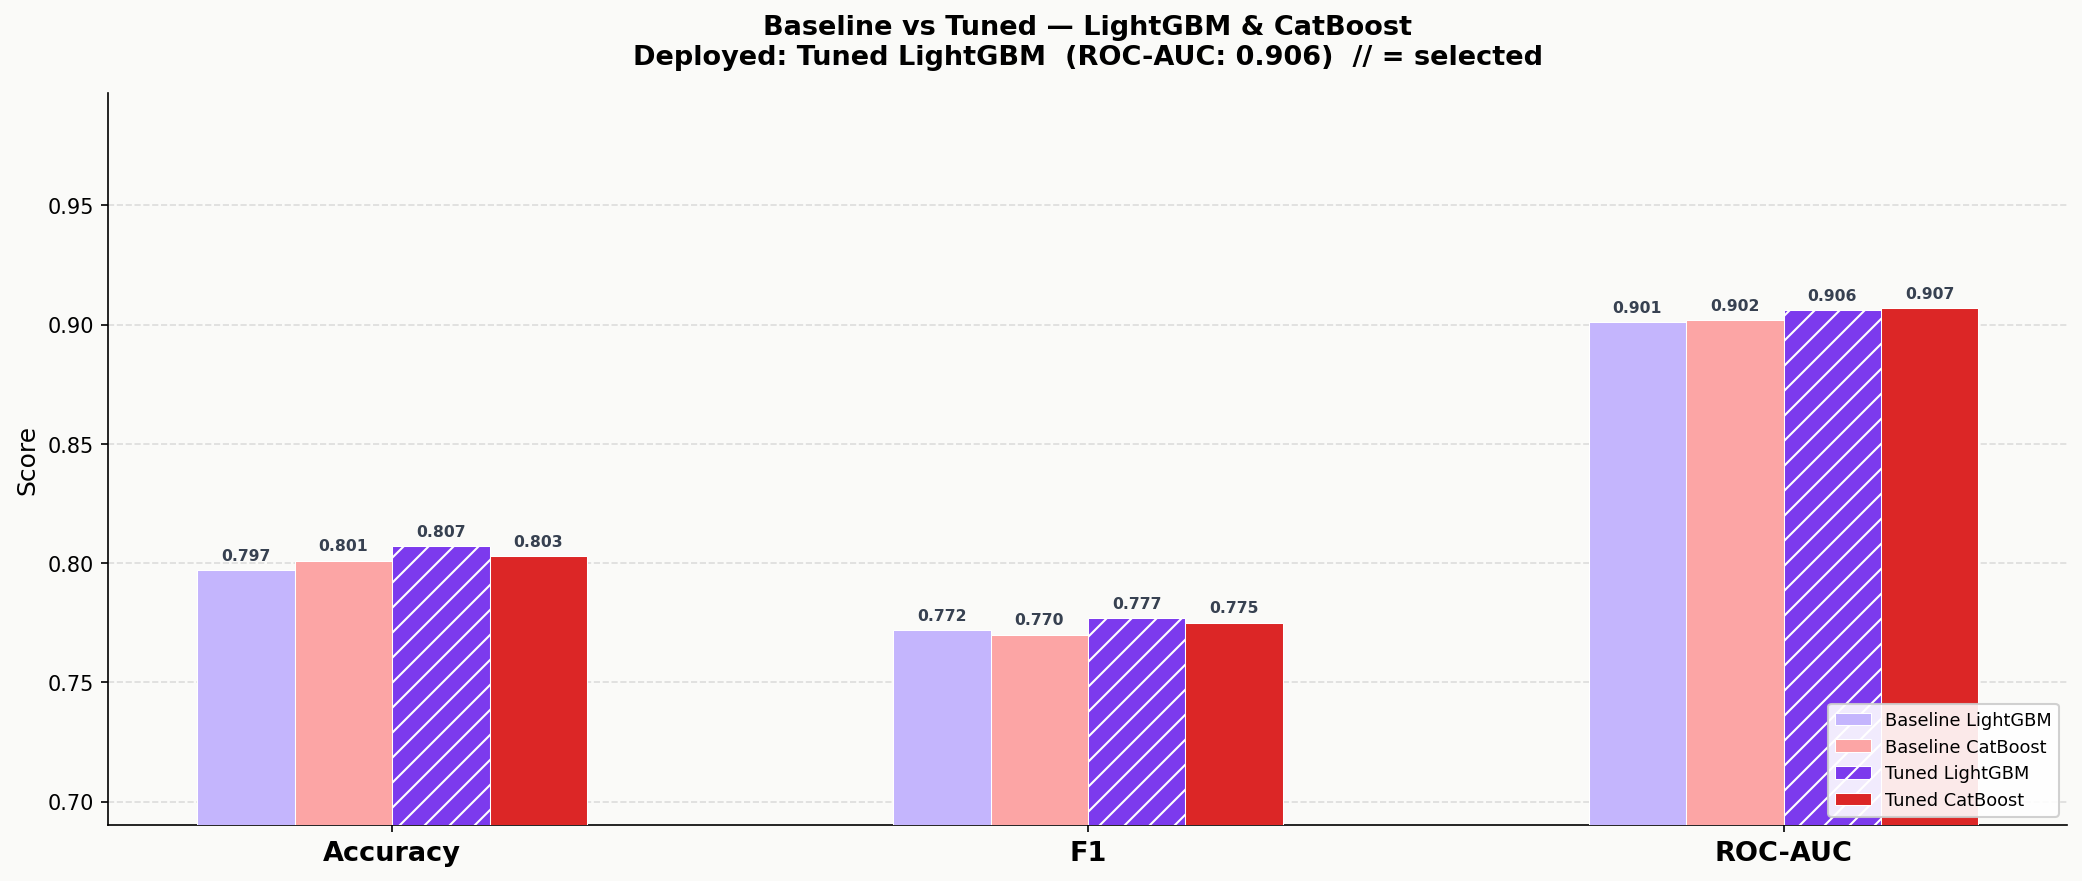
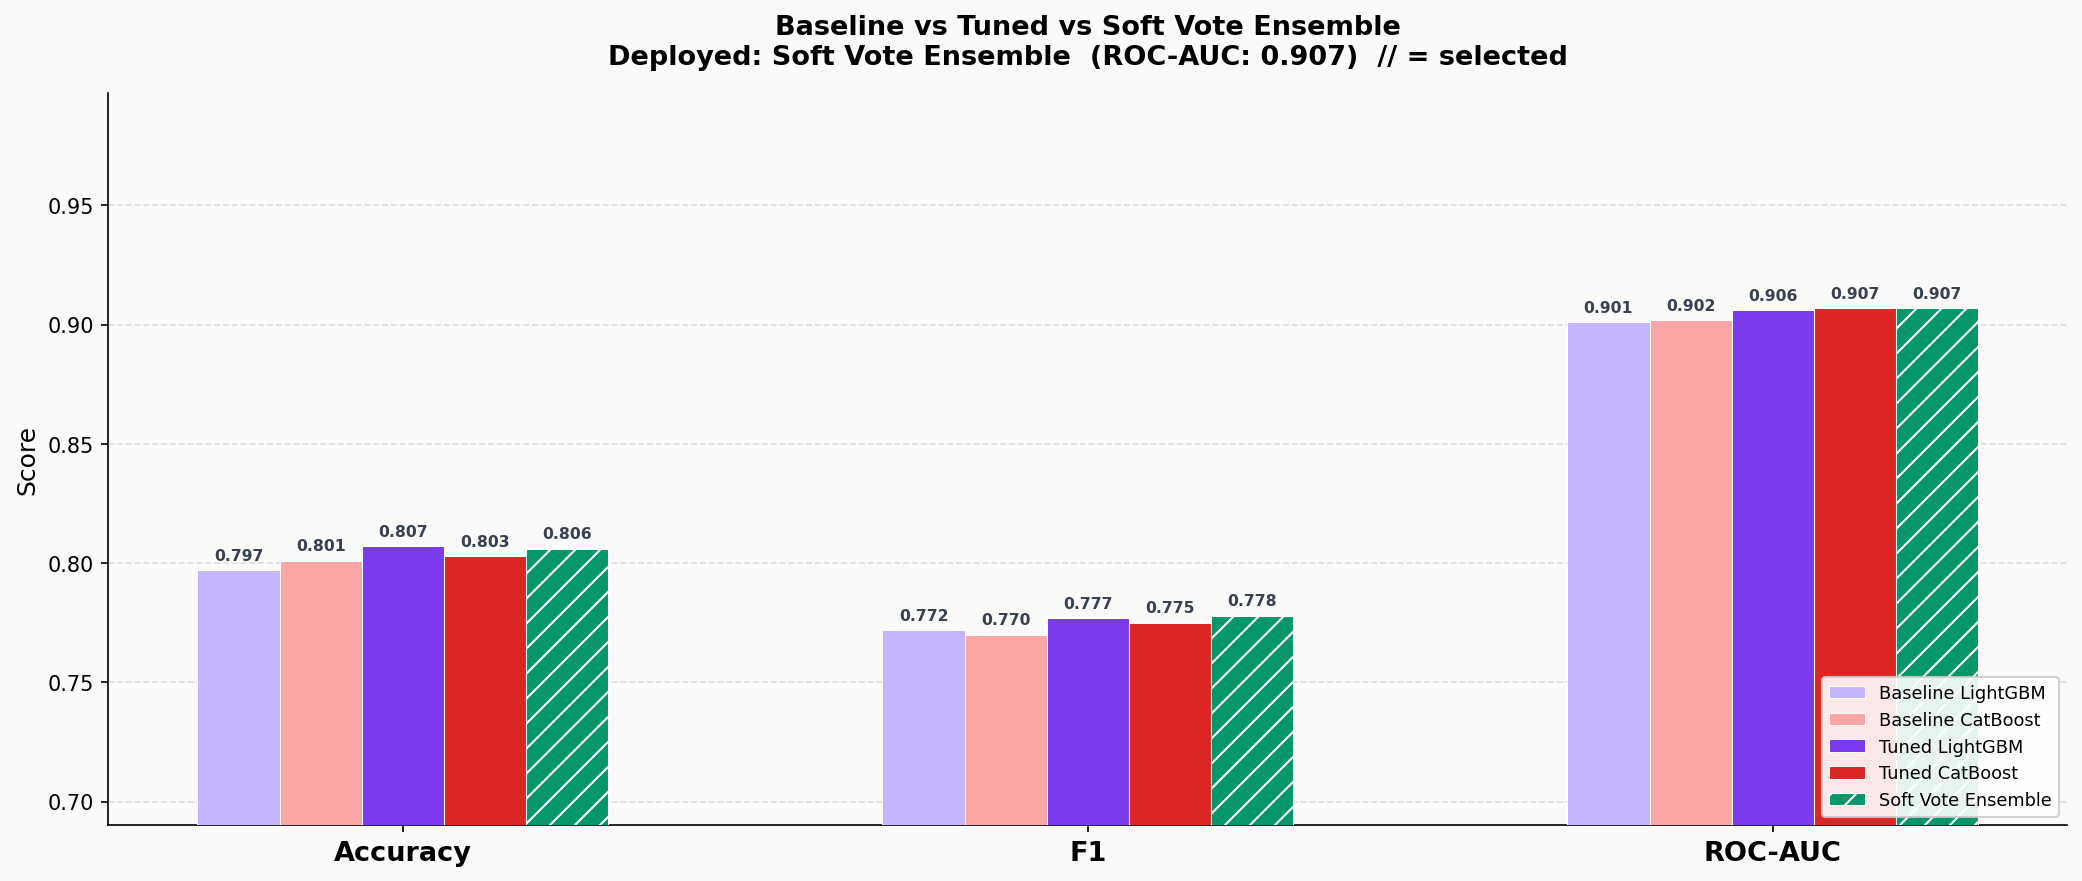
Refactor model loading and evaluation to use Soft Vote Ensemble (LightGBM + CatBoost)

diff --git a/ml/evaluatemodel.py b/ml/evaluatemodel.py
@@ -108,18 +108,25 @@ X_train, X_test, y_train, y_test = train_test_split(
 )
 print(f"\nSplit: {len(X_train):,} train / {len(X_test):,} test (80/20 stratified)")
 
-# ── 3. Load deployed model ────────────────────────────────────────────────────
-print("\nLoading model (tuned_lgbm.pkl)...")
-model = joblib.load(str(BASE_DIR / "tuned_lgbm.pkl"))
-print("  Loaded: tuned_lgbm.pkl")
+# ── 3. Load deployed ensemble ─────────────────────────────────────────────────
+print("\nLoading ensemble (ensemble_soft.pkl)...")
+bundle     = joblib.load(str(BASE_DIR / "ensemble_soft.pkl"))
+lgbm_pipe  = bundle["lgbm"]
+cat_pipe   = bundle["cat"]
+inner_lgbm = lgbm_pipe.named_steps["model"]
+inner_cat  = cat_pipe.named_steps["model"]
+X_scaled   = lgbm_pipe.named_steps["prep"].transform(X)
+print("  Loaded: ensemble_soft.pkl  (Tuned LightGBM + Tuned CatBoost)")
 
 # ── 4. Evaluate on held-out test set ─────────────────────────────────────────
 print("\n" + "="*60)
 print("HELD-OUT TEST SET EVALUATION  (20% unseen data)")
 print("="*60)
 
-y_pred  = model.predict(X_test)
-y_prob  = model.predict_proba(X_test)[:, 1]
+y_prob_lgbm = lgbm_pipe.predict_proba(X_test)[:, 1]
+y_prob_cat  = cat_pipe.predict_proba(X_test)[:, 1]
+y_prob      = (y_prob_lgbm + y_prob_cat) / 2
+y_pred      = (y_prob >= 0.5).astype(int)
 
 acc     = accuracy_score(y_test, y_pred)
 prec    = precision_score(y_test, y_pred)
@@ -154,16 +161,11 @@ print("\n" + "="*60)
 print("5-FOLD STRATIFIED CROSS-VALIDATION  (Tuned LightGBM)")
 print("="*60)
 
-cv          = StratifiedKFold(n_splits=5, shuffle=True, random_state=42)
-inner_model = model.named_steps["model"]
-X_scaled    = model.named_steps["prep"].transform(X)
-res = cross_validate(
-    inner_model, X_scaled, y,
-    cv=cv,
-    scoring=["accuracy", "f1", "roc_auc"],
-    return_train_score=True,
-)
-cv_results = {"LightGBM": res}
+cv       = StratifiedKFold(n_splits=5, shuffle=True, random_state=42)
+res_lgbm = cross_validate(inner_lgbm, X_scaled, y, cv=cv, scoring=["accuracy", "f1", "roc_auc"], return_train_score=True)
+res_cat  = cross_validate(inner_cat,  X_scaled, y, cv=cv, scoring=["accuracy", "f1", "roc_auc"], return_train_score=True)
+res      = {k: (res_lgbm[k] + res_cat[k]) / 2 for k in res_lgbm}
+cv_results = {"Soft Vote Ensemble": res}
 for metric in ["accuracy", "f1", "roc_auc"]:
     ts = res[f"test_{metric}"]
     tr = res[f"train_{metric}"]
@@ -179,7 +181,7 @@ else:
 print("\nGenerating evaluation plots...")
 
 fig, axes = plt.subplots(1, 3, figsize=(18, 5))
-fig.suptitle("ML Model Evaluation — Tuned LightGBM",
+fig.suptitle("ML Model Evaluation — Soft Vote Ensemble (LightGBM + CatBoost)",
              fontsize=14, fontweight="bold")
 
 # Plot A: Confusion Matrix
@@ -190,7 +192,7 @@ axes[0].set_title("Confusion Matrix\n(Held-out Test Set)", fontweight="bold")
 
 # Plot B: ROC Curve
 fpr, tpr, _ = roc_curve(y_test, y_prob)
-axes[1].plot(fpr, tpr, color="#6D28D9", lw=2, label=f"Tuned LightGBM (AUC = {roc_auc:.3f})")
+axes[1].plot(fpr, tpr, color="#6D28D9", lw=2, label=f"Soft Vote Ensemble (AUC = {roc_auc:.3f})")
 axes[1].plot([0, 1], [0, 1], color="gray", linestyle="--", label="Random baseline")
 axes[1].set_xlabel("False Positive Rate")
 axes[1].set_ylabel("True Positive Rate")
@@ -199,10 +201,12 @@ axes[1].legend()
 axes[1].set_xlim([0, 1])
 axes[1].set_ylim([0, 1.02])
 
-# Plot C: Feature Importance (LightGBM)
-lgbm_imp            = inner_model.booster_.feature_importance(importance_type="gain").astype(float)
-lgbm_imp           /= lgbm_imp.sum()
-feature_importances = lgbm_imp
+# Plot C: Feature Importance (averaged LightGBM + CatBoost)
+lgbm_imp = inner_lgbm.booster_.feature_importance(importance_type="gain").astype(float)
+lgbm_imp /= lgbm_imp.sum()
+cat_imp  = np.array(inner_cat.get_feature_importance(type="FeatureImportance"), dtype=float)
+cat_imp  /= cat_imp.sum()
+feature_importances = (lgbm_imp + cat_imp) / 2
 sorted_idx          = np.argsort(feature_importances)
 readable = {
     "issue_match":        "Issue Similarity",
@@ -219,7 +223,7 @@ colors = ["#6D28D9" if feature_importances[i] >= np.median(feature_importances) 
           for i in sorted_idx]
 axes[2].barh(labels, feature_importances[sorted_idx], color=colors)
 axes[2].set_xlabel("Relative Importance (normalized)")
-axes[2].set_title("Feature Importance\n(Tuned LightGBM)", fontweight="bold")
+axes[2].set_title("Feature Importance\n(Averaged: LightGBM + CatBoost)", fontweight="bold")
 axes[2].set_xlim([0, feature_importances.max() * 1.15])
 for i, v in enumerate(feature_importances[sorted_idx]):
     axes[2].text(v + 0.002, i, f"{v:.3f}", va="center", fontsize=8)
@@ -237,8 +241,8 @@ report_lines = [
     f"Features      : {len(FEATURE_ORDER)}",
     f"Target        : match_success (binary)",
     f"Class balance : match=1 ({y.mean()*100:.1f}%), match=0 ({(1-y).mean()*100:.1f}%)",
-    f"Model         : tuned_lgbm.pkl",
-    f"Pipeline      : StandardScaler → SMOTE → tree classifier",
+    f"Model         : ensemble_soft.pkl  (Soft Vote: LightGBM + CatBoost)",
+    f"Pipeline      : StandardScaler → SMOTE → each model; averaged probabilities",
     "",
     "TEST SET RESULTS (20% held-out, stratified split, seed=42)",
     "-" * 60,
@@ -257,7 +261,7 @@ report_lines = [
     "5-FOLD CROSS-VALIDATION",
     "-" * 60,
 ]
-for cv_label in ["LightGBM"]:
+for cv_label in ["Soft Vote Ensemble"]:
     res = cv_results[cv_label]
     report_lines.append(f"  {cv_label}")
     for metric in ["accuracy", "f1", "roc_auc"]:
@@ -266,7 +270,7 @@ for cv_label in ["LightGBM"]:
                             f"[{s.min():.4f}–{s.max():.4f}]")
 report_lines += [
     "",
-    "FEATURE IMPORTANCE (highest to lowest, Tuned LightGBM)",
+    "FEATURE IMPORTANCE (highest to lowest, averaged LightGBM + CatBoost)",
     "-" * 60,
 ]
 for i in np.argsort(feature_importances)[::-1]:

diff --git a/ml/tunemodels.py b/ml/tunemodels.py
@@ -154,12 +154,30 @@ print(f"  Tuned CatBoost : {scores_tuned_cat}")
 joblib.dump(tuned_cat, BASE_DIR / "tuned_cat.pkl")
 print("  Saved: tuned_cat.pkl")
 
+# ── Soft Voting Ensemble (LightGBM + CatBoost) ─────────────────────────────────
+print("\nBuilding soft-vote ensemble (Tuned LightGBM + Tuned CatBoost)...")
+prob_lgbm     = tuned_lgbm.predict_proba(X_test)[:, 1]
+prob_cat      = tuned_cat.predict_proba(X_test)[:, 1]
+prob_ensemble = (prob_lgbm + prob_cat) / 2
+y_ensemble    = (prob_ensemble >= 0.5).astype(int)
+
+scores_ensemble = {
+    "Accuracy": round(float(accuracy_score(y_test, y_ensemble)), 3),
+    "F1":       round(float(f1_score(y_test, y_ensemble)), 3),
+    "ROC-AUC":  round(float(roc_auc_score(y_test, prob_ensemble)), 3),
+}
+print(f"  Soft Vote Ensemble : {scores_ensemble}")
+
+joblib.dump({"lgbm": tuned_lgbm, "cat": tuned_cat}, BASE_DIR / "ensemble_soft.pkl")
+print("  Saved: ensemble_soft.pkl")
+
 # ── Save results CSV ───────────────────────────────────────────────────────────
 rows = [
     {"Model": "Baseline LightGBM", **scores_base_lgbm},
     {"Model": "Baseline CatBoost", **scores_base_cat},
     {"Model": "Tuned LightGBM",    **scores_tuned_lgbm},
     {"Model": "Tuned CatBoost",    **scores_tuned_cat},
+    {"Model": "Soft Vote Ensemble", **scores_ensemble},
 ]
 pd.DataFrame(rows).to_csv(BASE_DIR / "tuned_result.csv", index=False)
 print("Saved: tuned_result.csv")
@@ -168,15 +186,16 @@ print("Saved: tuned_result.csv")
 print("Generating chart...")
 metrics = ["Accuracy", "F1", "ROC-AUC"]
 plot_data = {
-    "Baseline LightGBM": (scores_base_lgbm, "#C4B5FD"),
-    "Baseline CatBoost": (scores_base_cat,  "#FCA5A5"),
-    "Tuned LightGBM":    (scores_tuned_lgbm, "#7C3AED"),
-    "Tuned CatBoost":    (scores_tuned_cat,  "#DC2626"),
+    "Baseline LightGBM":  (scores_base_lgbm,  "#C4B5FD"),
+    "Baseline CatBoost":  (scores_base_cat,   "#FCA5A5"),
+    "Tuned LightGBM":     (scores_tuned_lgbm, "#7C3AED"),
+    "Tuned CatBoost":     (scores_tuned_cat,  "#DC2626"),
+    "Soft Vote Ensemble": (scores_ensemble,   "#059669"),
 }
 
 x       = np.arange(len(metrics))
-width   = 0.14
-offsets = [-1.5, -0.5, 0.5, 1.5]
+width   = 0.12
+offsets = [-2, -1, 0, 1, 2]
 
 fig, ax = plt.subplots(figsize=(14, 6))
 fig.patch.set_facecolor("#FAFAF8")
@@ -184,7 +203,7 @@ ax.set_facecolor("#FAFAF8")
 
 for (label, (scores, color)), offset in zip(plot_data.items(), offsets):
     vals  = [scores[m] for m in metrics]
-    hatch = "//" if label == "Tuned LightGBM" else None
+    hatch = "//" if label == "Soft Vote Ensemble" else None
     bars  = ax.bar(x + offset * width, vals, width, label=label,
                    color=color, zorder=3, edgecolor="white", linewidth=0.5,
                    hatch=hatch)
@@ -199,8 +218,8 @@ all_vals = [s[m] for _, (s, _) in plot_data.items() for m in metrics]
 ax.set_ylim(max(0.0, min(all_vals) - 0.08), min(1.0, max(all_vals) + 0.09))
 ax.set_ylabel("Score", fontsize=12)
 ax.set_title(
-    f"Baseline vs Tuned — LightGBM & CatBoost\n"
-    f"Deployed: Tuned LightGBM  (ROC-AUC: {scores_tuned_lgbm['ROC-AUC']:.3f})  // = selected",
+    f"Baseline vs Tuned vs Soft Vote Ensemble\n"
+    f"Deployed: Soft Vote Ensemble  (ROC-AUC: {scores_ensemble['ROC-AUC']:.3f})  // = selected",
     fontsize=13, fontweight="bold", pad=14,
 )
 ax.legend(fontsize=8.5, framealpha=0.9, loc="lower right")
@@ -220,4 +239,7 @@ print("-" * 65)
 for row in rows:
     print(f"{row['Model']:<30} {row['Accuracy']:>9.3f} {row['F1']:>9.3f} {row['ROC-AUC']:>9.3f}")
 print("=" * 65)
+print("\nEnsemble bundle saved as ensemble_soft.pkl")
+print("  Load with: bundle = joblib.load('ensemble_soft.pkl')")
+print("  Use with : prob = (bundle['lgbm'].predict_proba(X)[:,1] + bundle['cat'].predict_proba(X)[:,1]) / 2")
 print("\nDONE")

diff --git a/backend/app/ml.py b/backend/app/ml.py
@@ -38,9 +38,9 @@ FEATURE_ORDER = [
 
 @lru_cache(maxsize=1)
 def load_resources():
-    model = joblib.load(str(BASE_DIR / "tuned_lgbm.pkl"))
+    bundle = joblib.load(str(BASE_DIR / "ensemble_soft.pkl"))
     df_ref = pd.read_csv(str(BASE_DIR / "client_counselor_dataset.csv"))
-    return model, df_ref
+    return bundle, df_ref
 
 
 def _issue_match(client_issue: str, specialization: str) -> float:
@@ -84,7 +84,7 @@ def run_match(match_req, counselors: list[dict]) -> dict:
     preferred_time      = getattr(match_req, "preferred_time", "Any time") or "Any time"
     exclude_ids = set(getattr(match_req, "exclude_ids", []) or [])
 
-    model, _ = load_resources()
+    bundle, _ = load_resources()
 
     rows = []
     for c in counselors:
@@ -126,7 +126,7 @@ def run_match(match_req, counselors: list[dict]) -> dict:
 
     with warnings.catch_warnings():
         warnings.filterwarnings("ignore", message="X does not have valid feature names")
-        prob = model.predict_proba(X)[:, 1]
+        prob = (bundle["lgbm"].predict_proba(X)[:, 1] + bundle["cat"].predict_proba(X)[:, 1]) / 2
 
     prob = np.clip(prob, 1e-7, 1 - 1e-7)
 
@@ -225,16 +225,19 @@ def engineer_features_from_df(df: pd.DataFrame) -> pd.DataFrame:
     return pd.DataFrame(rows)
 
 
-_shap_explainer = None
+_shap_explainers = None
 
 
-def _get_shap_explainer():
-    global _shap_explainer
-    if _shap_explainer is None:
+def _get_shap_explainers():
+    global _shap_explainers
+    if _shap_explainers is None:
         import shap
-        model, _ = load_resources()
-        _shap_explainer = shap.TreeExplainer(model.named_steps["model"])
-    return _shap_explainer
+        bundle, _ = load_resources()
+        _shap_explainers = (
+            shap.TreeExplainer(bundle["lgbm"].named_steps["model"]),
+            shap.TreeExplainer(bundle["cat"].named_steps["model"]),
+        )
+    return _shap_explainers
 
 
 def compute_shap(features: dict) -> dict:
@@ -244,24 +247,26 @@ def compute_shap(features: dict) -> dict:
         return {"error": "SHAP not installed.", "shap_values": [], "base_value": 0.0, "feature_names": [], "feature_values": []}
 
     try:
-        model, _  = load_resources()
-        explainer = _get_shap_explainer()
+        bundle, _        = load_resources()
+        exp_lgbm, exp_cat = _get_shap_explainers()
 
         feature_values = [features.get(f, 0.0) for f in FEATURE_ORDER]
-        x_row     = pd.DataFrame([{f: features.get(f, 0.0) for f in FEATURE_ORDER}])
-        x_scaled  = model.named_steps["prep"].transform(x_row[FEATURE_ORDER])
-        shap_vals = explainer.shap_values(x_scaled)
+        x_row    = pd.DataFrame([{f: features.get(f, 0.0) for f in FEATURE_ORDER}])
+        x_scaled = bundle["lgbm"].named_steps["prep"].transform(x_row[FEATURE_ORDER])
 
-        if isinstance(shap_vals, list):
-            row_contrib = np.array(shap_vals[1]).flatten().tolist()
-        else:
-            row_contrib = np.array(shap_vals).flatten().tolist()
+        sv_lgbm = exp_lgbm.shap_values(x_scaled)
+        sv_cat  = exp_cat.shap_values(x_scaled)
 
-        expected = explainer.expected_value
-        if isinstance(expected, (list, np.ndarray)):
-            base_value = float(np.array(expected).flat[-1])
-        else:
-            base_value = float(expected)
+        if isinstance(sv_lgbm, list): sv_lgbm = sv_lgbm[1]
+        if isinstance(sv_cat,  list): sv_cat  = sv_cat[1]
+
+        row_contrib = ((np.array(sv_lgbm) + np.array(sv_cat)) / 2).flatten().tolist()
+
+        ev_lgbm = exp_lgbm.expected_value
+        ev_cat  = exp_cat.expected_value
+        if isinstance(ev_lgbm, (list, np.ndarray)): ev_lgbm = float(np.array(ev_lgbm).flat[-1])
+        if isinstance(ev_cat,  (list, np.ndarray)): ev_cat  = float(np.array(ev_cat).flat[-1])
+        base_value = (float(ev_lgbm) + float(ev_cat)) / 2
 
         return {
             "shap_values":    row_contrib,

diff --git a/backend/app/routers/model_performance.py b/backend/app/routers/model_performance.py
@@ -24,9 +24,9 @@ STORE_DIR    = BASE_DIR / "model_store"
 VERSIONS_DIR = STORE_DIR / "versions"
 ACTIVE_FILE  = STORE_DIR / "active_version.txt"
 
-_BEST_MODEL     = ML_DIR / "tuned_lgbm.pkl"
+_BEST_MODEL     = ML_DIR / "ensemble_soft.pkl"
 _TUNED_CSV      = ML_DIR / "tuned_result.csv"
-_BEST_MODEL_BAK = STORE_DIR / "tuned_lgbm_backup.pkl"
+_BEST_MODEL_BAK = STORE_DIR / "ensemble_soft_backup.pkl"
 _TUNED_CSV_BAK  = STORE_DIR / "tuned_result_backup.csv"
 _DATASET_CSV    = ML_DIR / "client_counselor_dataset.csv"
 _DATASET_BAK    = STORE_DIR / "client_counselor_dataset_backup.csv"
@@ -47,7 +47,7 @@ def _deployed_metrics(tuned_csv: Path) -> dict:
     if not tuned_csv.exists():
         return {}
     df      = pd.read_csv(str(tuned_csv))
-    name    = "Tuned LightGBM"
+    name    = "Soft Vote Ensemble"
     matched = df[df["Model"] == name]
     row     = matched.iloc[0] if not matched.empty else df.loc[df["ROC-AUC"].idxmax()]
     return {
@@ -100,7 +100,7 @@ def get_model_performance():
             "best_model":     str(top["Model"]),
             "best_roc_auc":   best_roc,
             "model_count":    len(df),
-            "deployed_model": "Tuned LightGBM",
+            "deployed_model": "Soft Vote Ensemble",
             "tuning_models":  tuning_models,
         }
     except Exception:
@@ -120,7 +120,7 @@ def _ensure_initial_version():
     if not _BEST_MODEL.exists():
         return
     initial_dir.mkdir(exist_ok=True)
-    shutil.copy2(str(_BEST_MODEL), str(initial_dir / "tuned_lgbm.pkl"))
+    shutil.copy2(str(_BEST_MODEL), str(initial_dir / "ensemble_soft.pkl"))
     if _TUNED_CSV.exists():
         shutil.copy2(str(_TUNED_CSV), str(initial_dir / "tuned_result.csv"))
     metrics = _deployed_metrics(_TUNED_CSV)
@@ -221,7 +221,7 @@ def _run_training(job_id: str, df: pd.DataFrame):
         job["progress"] = 0.90
         new_metrics = _deployed_metrics(_TUNED_CSV)
         if _BEST_MODEL.exists():
-            shutil.copy2(str(_BEST_MODEL), str(version_dir / "tuned_lgbm.pkl"))
+            shutil.copy2(str(_BEST_MODEL), str(version_dir / "ensemble_soft.pkl"))
         if _TUNED_CSV.exists():
             shutil.copy2(str(_TUNED_CSV), str(version_dir / "tuned_result.csv"))
 
@@ -311,10 +311,10 @@ def deploy_version(version_id: str):
     version_dir = VERSIONS_DIR / version_id
     if not version_dir.exists():
         raise HTTPException(status_code=404, detail=f"Version {version_id} not found.")
-    pkl = version_dir / "tuned_lgbm.pkl"
+    pkl = version_dir / "ensemble_soft.pkl"
     csv = version_dir / "tuned_result.csv"
     if not pkl.exists():
-        raise HTTPException(status_code=404, detail="tuned_lgbm.pkl not found in this version.")
+        raise HTTPException(status_code=404, detail="ensemble_soft.pkl not found in this version.")
     STORE_DIR.mkdir(exist_ok=True)
     if _BEST_MODEL.exists():
         shutil.copy2(str(_BEST_MODEL), str(_BEST_MODEL_BAK))
